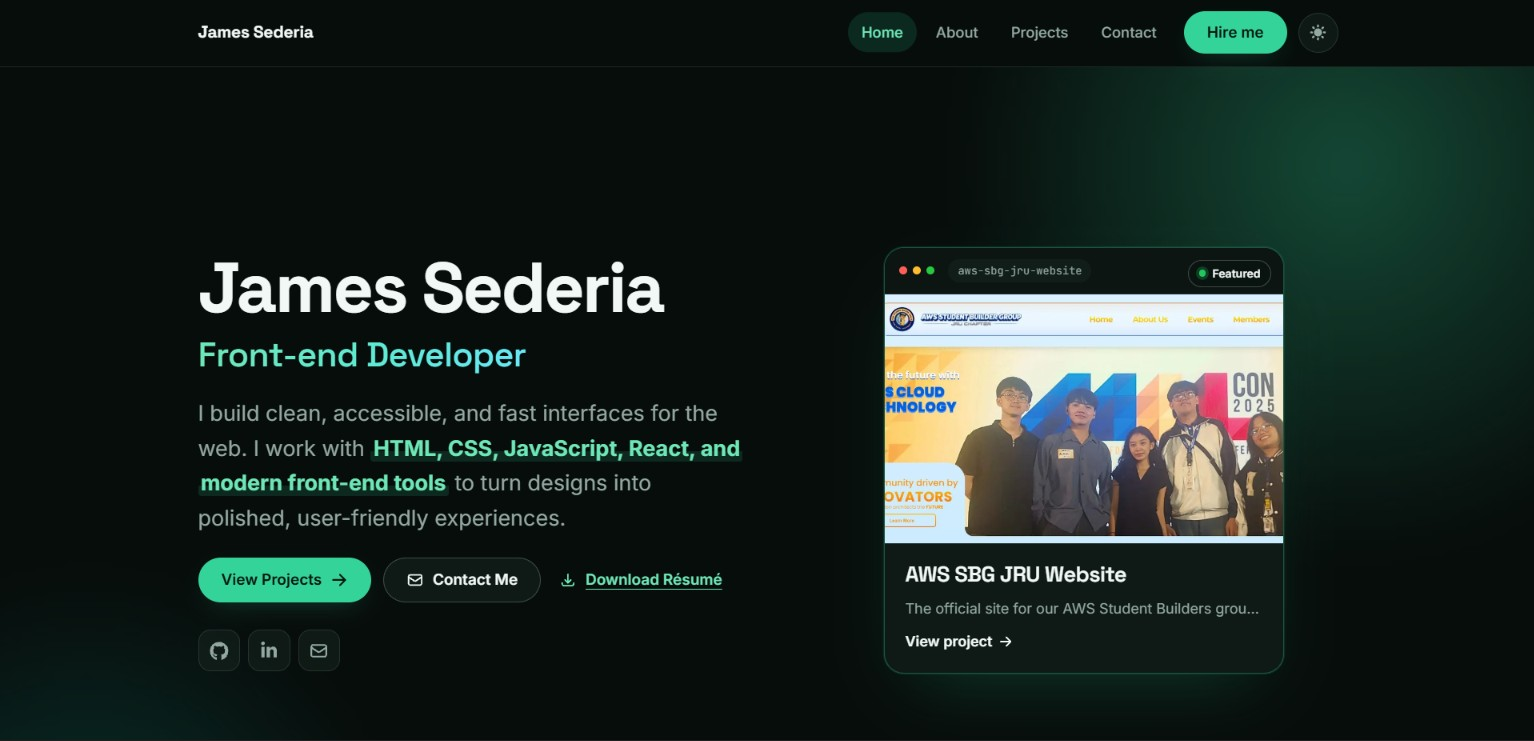
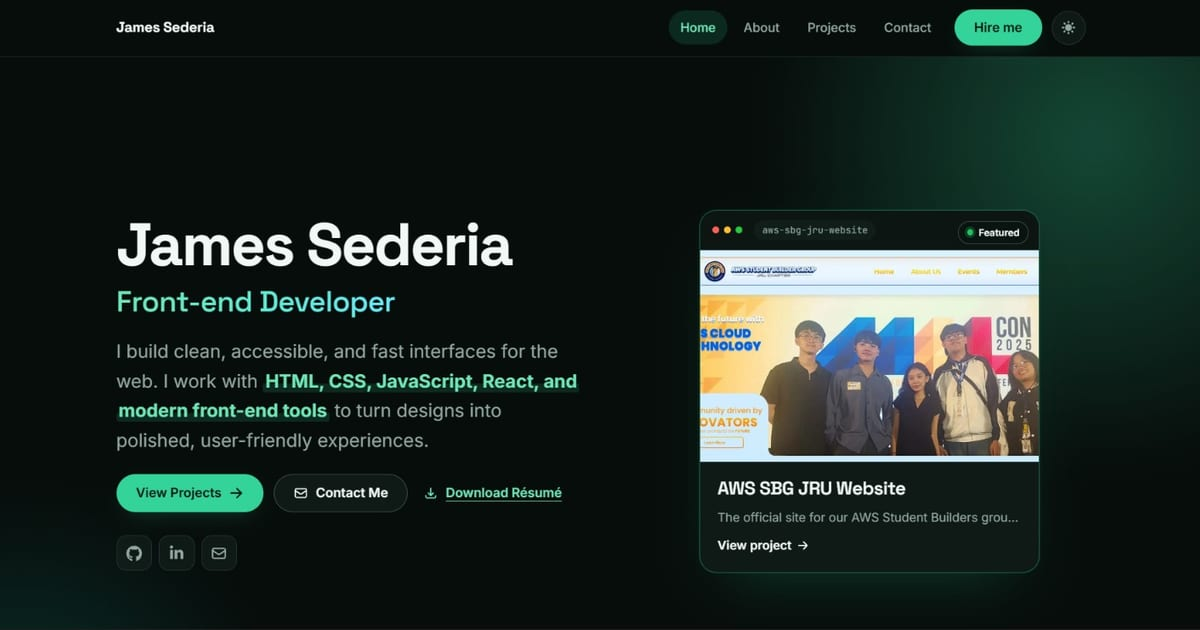
Rate limit changes

diff --git a/api/contact.js b/api/contact.js
@@ -1,11 +1,28 @@
 // Contact form endpoint (Vercel Function).
 // Sends the message through Resend, the email provider installed from the
 // Vercel Marketplace (it sets RESEND_API_KEY on the project).
+//
+// The endpoint is public, so every accepted request costs Resend quota. Layers
+// of cheap checks run before anything is sent: cross-site posts are refused,
+// per-IP submissions are capped, the body size is bounded, and a honeypot
+// field silently drops form-filling bots.
 
 const RESEND_ENDPOINT = "https://api.resend.com/emails";
 const EMAIL_PATTERN = /^[^\s@]+@[^\s@]+\.[^\s@]+$/;
 
 const MAX = { name: 120, email: 200, message: 5000 };
+
+const MAX_BODY_BYTES = 16 * 1024;
+
+// Per-IP budget. A real visitor sends one or two messages, so five in ten
+// minutes leaves plenty of headroom.
+const RATE_LIMIT = { windowMs: 10 * 60 * 1000, max: 5, maxKeys: 1000 };
+
+// Best-effort only: Vercel may run several instances, so this caps bursts that
+// reach the same one. The firewall rate-limit rule is the shared ceiling.
+const submissions = new Map();
+
+class BodyTooLargeError extends Error {}
 
 // Where the message lands. Override with CONTACT_TO if it ever changes.
 const TO_ADDRESS = process.env.CONTACT_TO || "jjsederia08@gmail.com";
@@ -25,12 +42,68 @@ function sendJson(res, statusCode, payload) {
 /** Vercel pre-parses JSON bodies; the Vite dev server does not. */
 async function readJsonBody(req) {
   if (req.body && typeof req.body === "object") return req.body;
-  if (typeof req.body === "string") return JSON.parse(req.body);
+  if (typeof req.body === "string") {
+    if (Buffer.byteLength(req.body) > MAX_BODY_BYTES) throw new BodyTooLargeError();
+    return JSON.parse(req.body);
+  }
 
   const chunks = [];
-  for await (const chunk of req) chunks.push(chunk);
+  let size = 0;
+
+  for await (const chunk of req) {
+    size += chunk.length;
+    if (size > MAX_BODY_BYTES) throw new BodyTooLargeError();
+    chunks.push(chunk);
+  }
+
   const raw = Buffer.concat(chunks).toString("utf8");
   return raw ? JSON.parse(raw) : {};
+}
+
+/** First hop in X-Forwarded-For is the client as Vercel saw it. */
+function clientIp(req) {
+  const forwarded = req.headers["x-forwarded-for"];
+  const value = Array.isArray(forwarded) ? forwarded[0] : forwarded;
+  const first = (value || req.headers["x-real-ip"] || "unknown")
+    .split(",")[0]
+    .trim();
+  return first || "unknown";
+}
+
+/**
+ * A browser POST from another site is tagged `cross-site`. Refusing those stops
+ * third-party pages using this endpoint as a free mail relay. Non-browser
+ * clients can omit the header, which is why the rate limit also exists.
+ */
+function isCrossSite(req) {
+  const site = String(req.headers["sec-fetch-site"] || "").toLowerCase();
+  return site === "cross-site";
+}
+
+function isRateLimited(key) {
+  const now = Date.now();
+  const recent = (submissions.get(key) || []).filter(
+    (time) => now - time < RATE_LIMIT.windowMs,
+  );
+
+  if (recent.length >= RATE_LIMIT.max) {
+    submissions.set(key, recent);
+    return true;
+  }
+
+  recent.push(now);
+  submissions.set(key, recent);
+
+  // Drop keys that have gone quiet so the map cannot grow without bound.
+  if (submissions.size > RATE_LIMIT.maxKeys) {
+    for (const [ip, times] of submissions) {
+      if (!times.some((time) => now - time < RATE_LIMIT.windowMs)) {
+        submissions.delete(ip);
+      }
+    }
+  }
+
+  return false;
 }
 
 function escapeHtml(value) {
@@ -53,17 +126,45 @@ export default async function handler(req, res) {
     return sendJson(res, 405, { error: "Method not allowed." });
   }
 
+  if (isCrossSite(req)) {
+    return sendJson(res, 403, { error: "Request blocked." });
+  }
+
+  const ip = clientIp(req);
+
+  if (isRateLimited(ip)) {
+    res.setHeader("Retry-After", String(Math.ceil(RATE_LIMIT.windowMs / 1000)));
+    return sendJson(res, 429, {
+      error: "Too many messages. Please try again later.",
+    });
+  }
+
   const apiKey = process.env.RESEND_API_KEY;
   if (!apiKey) {
     console.error("RESEND_API_KEY is not set.");
     return sendJson(res, 500, { error: "Email is not configured." });
   }
 
+  const declaredLength = Number(req.headers["content-length"]);
+  if (Number.isFinite(declaredLength) && declaredLength > MAX_BODY_BYTES) {
+    return sendJson(res, 413, { error: "Request is too large." });
+  }
+
   let body;
   try {
     body = await readJsonBody(req);
-  } catch {
+  } catch (error) {
+    if (error instanceof BodyTooLargeError) {
+      return sendJson(res, 413, { error: "Request is too large." });
+    }
     return sendJson(res, 400, { error: "Invalid request body." });
+  }
+
+  // Honeypot: hidden from people, attractive to bots that fill every input.
+  // Answer 200 so they do not retry, but send nothing.
+  if (String(body?.company_website ?? "").trim()) {
+    console.warn("Contact form honeypot triggered from", ip);
+    return sendJson(res, 200, { ok: true });
   }
 
   const name = String(body?.name ?? "").trim();

diff --git a/src/components/Contact.jsx b/src/components/Contact.jsx
@@ -53,6 +53,8 @@ export default function Contact() {
     name: "",
     email: "",
     message: "",
+    // Honeypot. Real visitors never see or fill this field; bots do.
+    company_website: "",
   });
   const [errors, setErrors] = useState(EMPTY_ERRORS);
   const [status, setStatus] = useState("idle"); // idle | sending | sent
@@ -89,6 +91,7 @@ export default function Contact() {
           name: form.name.trim(),
           email: form.email.trim(),
           message: form.message.trim(),
+          company_website: form.company_website,
         }),
       });
 
@@ -150,6 +153,20 @@ export default function Contact() {
               </p>
             ) : (
               <form className="contact-form" onSubmit={handleSubmit} noValidate>
+                {/* Honeypot: off-screen and skipped by keyboard and screen
+                    readers, but bots that fill every input will populate it. */}
+                <div className="field field--hp" aria-hidden="true">
+                  <label htmlFor="contact-company-website">Company website</label>
+                  <input
+                    id="contact-company-website"
+                    name="company_website"
+                    value={form.company_website}
+                    onChange={handleChange}
+                    tabIndex={-1}
+                    autoComplete="off"
+                  />
+                </div>
+
                 <div className={errors.name ? "field field--invalid" : "field"}>
                   <label htmlFor="contact-name">Name</label>
                   <input

diff --git a/src/App.css b/src/App.css
@@ -1020,6 +1020,16 @@
   gap: 0.4rem;
 }
 
+/* Honeypot: stays in the layout tree so simple bots still fill it, but is
+   moved off-screen and collapsed so people never see it. */
+.field--hp {
+  position: absolute;
+  left: -9999px;
+  width: 1px;
+  height: 1px;
+  overflow: hidden;
+}
+
 .field label {
   font-size: 0.85rem;
   font-weight: 600;

diff --git a/README.md b/README.md
@@ -22,7 +22,7 @@ This is my personal portfolio website: a fast, single-page introduction to who I
 - **Skills section** — a grid of the languages, tools, and platforms I work with
 - **Projects carousel** — an interactive 3D coverflow with tech tags, demo/code links, arrow and dot controls, keyboard navigation, and swipe support
 - **Scroll-reveal animations** — sections fade in as you scroll and are disabled for `prefers-reduced-motion`
-- **Contact section** — direct email, GitHub, and LinkedIn links plus a required-field form that emails me through [Resend](https://resend.com)
+- **Contact section** — direct email, GitHub, and LinkedIn links plus a required-field form that emails me through [Resend](https://resend.com). The endpoint refuses cross-site posts, silently drops honeypot submissions, and rate limits per IP.
 - **Résumé download** — one-click PDF download
 - **Accessibility** — skip link, semantic landmarks, ARIA labels, and visible keyboard focus styles
 - **SEO & social sharing** — Open Graph and Twitter cards with a canonical URL, sitemap, and robots file
@@ -103,7 +103,7 @@ There is no automated test suite yet. Before shipping, run `npm run lint` and `n
 - **Personal details:** update `src/site.config.js` — name, email, GitHub/LinkedIn URLs, roles, and the résumé path.
 - **Projects:** update `src/data/projects.js` — title, description, image, tags, live demo, and repository URL. Replace the placeholder links/images called out in the file's comments.
 - **Résumé:** replace `public/resume-sederia.pdf` (keep the filename or update `RESUME_URL` in `src/site.config.js`).
-- **Images:** project screenshots live in `public/` and `public/projects/`. Update `og-image.png` if the social preview should change.
+- **Images:** project screenshots live in `public/` as WebP files. The social preview is `public/portfolio-preview.jpg`, cropped to the 1200×630 box declared in `index.html` — keep those two in sync if you replace it.
 - **Colors and spacing:** edit the design tokens at the top of `src/index.css`.
 
 ## Deployment
@@ -113,6 +113,7 @@ The site is set up for **Vercel**. `vercel.json` rewrites all routes to `index.h
 - Pushing to `main` deploys production when the repository is connected to a Vercel project.
 - The contact endpoint reads `RESEND_API_KEY`, which the Resend Marketplace integration adds to every environment automatically. Run `vercel env pull` to copy it into `.env.local` for local development; `npm run dev` serves `/api/contact` too.
 - Optional overrides: `CONTACT_TO` (defaults to the address in `api/contact.js`) and `CONTACT_FROM` (defaults to `Portfolio Contact <onboarding@resend.dev>`).
+- Abuse protection: `api/contact.js` caps each IP at 5 submissions per 10 minutes and rejects cross-site or honeypot-filled posts. A Vercel Firewall rule rate limits `/api/contact` to 10 requests per minute per IP; check it with `vercel firewall rules list`.
 - If the production domain changes, update the canonical URL and Open Graph/Twitter URLs in `index.html`, plus `public/robots.txt` and `public/sitemap.xml`.
 
 ## Manual QA checklist
